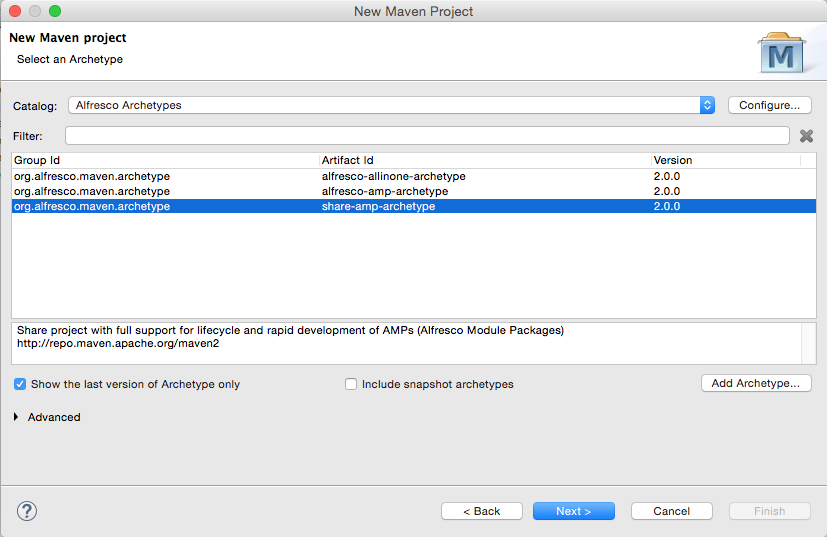
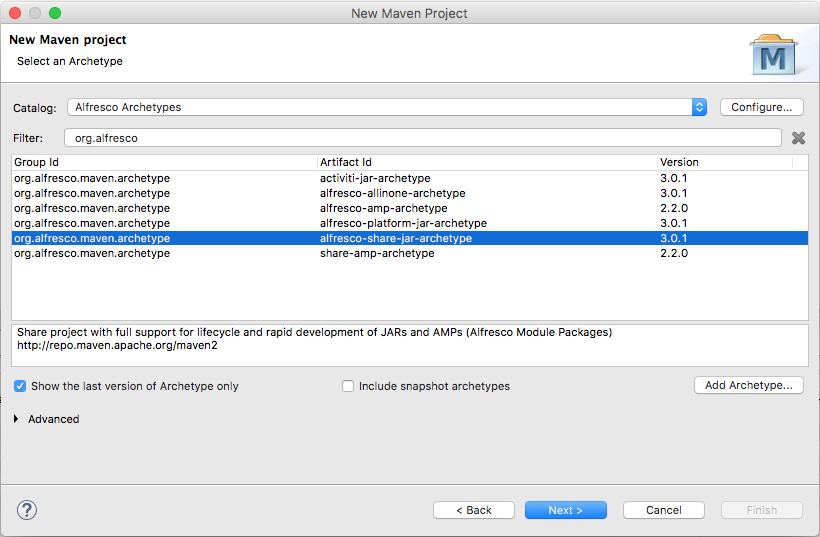
Upgrade maven-sdk tutorial source and content to Alfresco SDK 3.0.1.

Changed region(s): [[0.0, 0.0, 1.0, 0.7449], [0.0, 0.8939, 1.0, 1.0], [0.0305, 0.7747, 0.0915, 0.8045]]

diff --git a/maven-sdk/tutorial/tutorial.html b/maven-sdk/tutorial/tutorial.html
@@ -44,6 +44,7 @@ Architect | Alfresco Developer Tutorials</title>
 <li><a href="#your-first-project">Your First Project</a><ul>
 <li><a href="#lets-run-it">Let's Run It</a></li>
 <li><a href="#what-just-happened">What Just Happened?</a></li>
+<li><a href="#jars-versus-amps">JARs versus AMPs</a></li>
 <li><a href="#other-commands-for-invoking-the-build">Other Commands for Invoking the Build</a></li>
 <li><a href="#logging">Logging</a></li>
 <li><a href="#working-with-your-project-in-an-ide">Working With Your Project in an IDE</a></li>
@@ -82,7 +83,7 @@ Architect | Alfresco Developer Tutorials</title>
 <h2 id="alfresco-maven-sdk">Alfresco Maven SDK</h2>
 <p>The goal of the Maven-based SDK is to make it extremely easy for you to get started with Alfresco development. It consists of a project template (an &quot;archetype&quot; in Maven parlance) and some built-in smarts that make Maven understand how to create AMPs and deploy them to Alfresco.</p>
 <p>If you are writing your own custom application that is separate from the Alfresco and Share WARs you don't need the Alfresco Maven SDK. But if you intend to write code that runs within either of those web applications, the Alfresco Maven SDK is where you need to start.</p>
-<p>A quick word about versions. This tutorial assumes you are using Alfresco Maven SDK 3.0.0. The version you use may depend on which version of Alfresco you want to use. Check the <a href="http://docs.alfresco.com/community/concepts/alfresco-sdk-compatibility.html">Alfresco SDK Compatability Matrix</a> to be sure. If you are using a version older than 4.x you'll have to use the old Ant-based SDK. The rest of this document won't apply to you.</p>
+<p>A quick word about versions. This tutorial assumes you are using Alfresco Maven SDK 3.0.1 which works with Alfresco 4.2.7 and higher. If you are using a version of Alfresco newer than 4.0 but older than 4.2.7 you can use an older version of the SDK. You can use SDK 2.x with this and other tutorials if you must, but you'll almost surely be affected by some differences. If you are using a version of Alfresco older than 4.x you'll have to use the old Ant-based SDK. The rest of this document won't apply to you.</p>
 <p>Now you have a high-level understanding of Apache Maven, AMPs, and the Alfresco Maven SDK. It's time to see them in action.</p>
 <h1 id="your-first-project">Your First Project</h1>
 <p>Let me show you how easy it can be to get started with Alfresco development using the Alfresco Maven SDK. Before I start I'm going to assume you have JDK 1.8 installed as well as Apache Maven 3. You don't need to download anything else. Seriously. Not even Alfresco.</p>
@@ -90,17 +91,15 @@ Architect | Alfresco Developer Tutorials</title>
 <li><p>Create an empty directory. It doesn't matter where it is or what you call it. I'll refer to it as $TUTORIAL_HOME. We're going to be creating some additional directories in here shortly.</p></li>
 <li><p>Now let's create a new project. For now, let's assume you want to create something that you will deploy to the Alfresco repository tier such as a custom content model, some custom rule actions, a new set of web scripts, or some Activiti business processes. It doesn't really matter. To create the new project, change directories to $TUTORIAL_HOME, then run this command:</p>
 <pre><code>mvn archetype:generate -Dfilter=org.alfresco:</code></pre></li>
-<li>Maven will do some work and eventually ask you to choose an &quot;archetype&quot;. You're basically selecting from a library of template projects. There are three available:
-<ol style="list-style-type: decimal">
-<li>alfresco-allinone-archetype</li>
-<li>alfresco-amp-archetype</li>
-<li>share-amp-archetype</li>
-<li>alfresco-platform-jar-archetype</li>
-<li>alfresco-share-jar-archetype</li>
-<li>activiti-jar-archetype</li>
-</ol>
+<li><p>Maven will do some work and eventually ask you to choose an &quot;archetype&quot;. You're basically selecting from a library of template projects. There are six available:</p>
+<pre><code>1: remote -&gt; org.alfresco.maven.archetype:activiti-jar-archetype
+2: remote -&gt; org.alfresco.maven.archetype:alfresco-allinone-archetype
+3: remote -&gt; org.alfresco.maven.archetype:alfresco-amp-archetype
+4: remote -&gt; org.alfresco.maven.archetype:alfresco-platform-jar-archetype
+5: remote -&gt; org.alfresco.maven.archetype:alfresco-share-jar-archetype
+6: remote -&gt; org.alfresco.maven.archetype:share-amp-archetype</code></pre>
 <p>Even though our goal is to create an AMP that can be deployed to Alfresco, neither of the two options with &quot;amp&quot; in their names are what we want. Those are for old versions of the SDK. Instead, we want to choose one that has &quot;jar&quot; in the name. For now, our goal is to deploy to Alfresco, so &quot;alfresco-platform-jar-archetype&quot; is the one we want. Type 4 and hit enter.</p></li>
-<li><p>If Maven asks you to specify the version of the archetype you want, choose 3.0.0. Again, the version you choose may not support all Alfresco versions, so check the compatibility matrix I mentioned earlier.</p></li>
+<li><p>If Maven asks you to specify the version of the archetype you want, choose 3.0.1.</p></li>
 <li><p>Maven now asks for a groupId. You should be thinking &quot;Java package&quot;. My examples always assume I am working at a fictitious company called SomeCo, so I will specify &quot;com.someco&quot; here. Specify what makes sense in your case and hit enter.</p></li>
 <li><p>Next is the artifactId. You can think of this as what you want your project to be called. It will also be the ID of your AMP so make it something unique. You should also append the string &quot;-repo&quot; to your artifactId because this module is intended to be deployed to the repository tier. I'm going to specify &quot;someco-mvn-tutorial-repo&quot; for mine followed by enter.</p></li>
 <li><p>Take the default package, which will match your groupId.</p></li>
@@ -136,8 +135,12 @@ Architect | Alfresco Developer Tutorials</title>
 <pre><code>-Xmx1024M -XX:MaxPermSize=512m</code></pre>
 <p>Another option is to edit the run.sh or run.bat script. With MAVEN_OPTS set you should not see any out-of-memory errors.</p>
 <h2 id="what-just-happened">What Just Happened?</h2>
-<p>If you looked at the run script, you'll see that you asked maven to run the alfresco:run goal. This causes the project to be built, deployed as an AMP to a fresh Alfresco WAR, and run on the embedded Tomcat server. Once it started up, you were able to log in to the admin console and the web scripts console.</p>
-<p>If you go look in the target directory you'll see the AMP that was produced and subsequently deployed to the Alfresco WAR. In my case it is called &quot;someco-mvn-tutorial-repo.amp&quot;. This file is what you would give to your IT team if you were ready to deploy your repository tier changes to a real Alfresco server.</p>
+<p>If you looked at the run script, you'll see that you asked maven to run the clean, install, and alfresco:run goals. This causes the project output to be cleaned, the project to be built, and then run on the embedded Tomcat server. Once it started up, you were able to log in to the admin console and the web scripts console.</p>
+<p>If you go look in the target directory you'll see a JAR file that was produced and subsequently deployed to the Alfresco WAR. In my case it is called &quot;someco-mvn-tutorial-repo-1.0-SNAPSHOT.jar&quot;.</p>
+<h2 id="jars-versus-amps">JARs versus AMPs</h2>
+<p>You can deploy Alfresco projects as JAR files only in a limited number of very simple cases. More often, your changes will need to be packaged as an Alfresco Module Package (AMP) file. Because AMPs must still be used most of the time, it simplifies things to use AMPs all of the time and to never use JARs. So, it's a good idea to just get in the mindset that you've just built your last Alfresco module as a JAR and from now on it will be all AMPs, all the time.</p>
+<p>To change your project to produce AMPs, edit the pom.xml. Search for the &quot;maven-assembly-plugin&quot; and uncomment it. Now when you run <code>mvn install</code> you'll see that an AMP gets produced in the target directory.</p>
+<p>The AMP file is what you would give to your IT team if you were ready to deploy your repository tier changes to a real Alfresco server.</p>
 <h2 id="other-commands-for-invoking-the-build">Other Commands for Invoking the Build</h2>
 <p>You may not always need to start up the Alfresco server and leave it running. If you just want to build the project, run the unit tests, and package the AMP, you can run:</p>
 <pre><code>mvn package</code></pre>
@@ -165,7 +168,7 @@ Running org.alfresco.demoamp.test.DemoComponentTest</code></pre>
 <pre><code>&lt;module.log.level&gt;DEBUG&lt;/module.log.level&gt;</code></pre>
 <p>If you change the pom.xml, then the AMP that gets produced will include that setting, and subsequently, the WAR the AMP gets deployed to will write log statements accordingly. This may or may not be what you want. If you aren't sure, it's probably best to set it using the command-line so it doesn't accidentally get set in your AMP.</p>
 <h2 id="working-with-your-project-in-an-ide">Working With Your Project in an IDE</h2>
-<p>Althought it isn't required, most people prefer to work in an IDE when developing Alfresco customizations. Any IDE will do, but the most popular one is Eclipse so let's see how that works.</p>
+<p>Although it isn't required, most people prefer to work in an IDE when developing Alfresco customizations. Any IDE will do, but the most popular one is Eclipse so let's see how that works.</p>
 <p>I'll be using the Neon version of Eclipse Java EE IDE for Web Developers. It comes with built-in Maven support.</p>
 <p>To open the project we created earlier in Eclipse, do this:</p>
 <ol style="list-style-type: decimal">
@@ -179,10 +182,11 @@ Running org.alfresco.demoamp.test.DemoComponentTest</code></pre>
 </div></li>
 </ol>
 <p>After clicking Finish, the project is imported into your Eclipse workspace.</p>
+<p>Note: In Eclipse you may see Maven lifecycle related errors after importing a project based on the Alfresco Maven SDK. You can modify your pom.xml to resolve these errors or they can be ignored. IntelliJ should have no problem.</p>
 <h2 id="understanding-the-project-structure">Understanding the Project Structure</h2>
 <p>The folder structure of your project is a bit more pleasant to explore in your IDE. Let's see what we've got.</p>
 <ul>
-<li><p><em>pom.xml</em> In the root of the project directory you'll see pom.xml. This tells Maven everything it needs to know about your project. Remember those settings you specified when you created the project from the archetype? You can make changes to those settings here. For example, version 3.0.0 of the archetype assumes you are working with Alfresco Community Edition 5.2.e. If you wanted to work with a different version, you would simply change those properties and then tell Maven to update and it will take care of the rest.</p></li>
+<li><p><em>pom.xml</em> In the root of the project directory you'll see pom.xml. This tells Maven everything it needs to know about your project. Remember those settings you specified when you created the project from the archetype? You can make changes to those settings here. For example, version 3.0.1 of the archetype assumes you are working with Alfresco Community Edition 5.2.e. If you wanted to work with a different version, you would simply change those properties and then tell Maven to update and it will take care of the rest.</p></li>
 <li><p><em>src/main/java</em> This is where you should create your own packages to organize your Java code. Things like custom action executer classes, custom behaviors, Java-based controllers for web scripts go here. If you don't know what those are, don't worry, there are tutorials available <a href="http://ecmarchitect.com/alfresco-developer-series">here</a>. These files will ultimately be placed in a JAR. When the AMP is installed into the Alfresco WAR, the JAR will be placed under WEB-INF/lib.</p></li>
 <li><p><em>src/test</em> Everything under src/test is about running unit tests. The unit tests themselves go in src/test/java. Any resources those classes need go in src/test/resources. In src/test/properties/local you'll see an alfresco-global.properties file. If you are already know something about Alfresco you know that this is used to configure Alfresco. In this case, it is only used when running the embedded Alfresco server for testing purposes.</p></li>
 <li><p><em>src/main/assembly</em> Everything in this directory tells Maven how to construct an AMP file.</p></li>
@@ -198,7 +202,7 @@ Running org.alfresco.demoamp.test.DemoComponentTest</code></pre>
 <h1 id="creating-a-project-for-share-tier-customizations">Creating a Project for Share Tier Customizations</h1>
 <p>The first thing you should realize is that the structure for a project that creates repo tier customizations is exactly the same as one that targets Share tier customizations. From an Alfresco Maven SDK perspective, there are two things different about a Share project: The project's dependencies and the WAR the AMP will be deployed to.</p>
 <h3 id="try-it-create-a-share-project-using-the-archetype">Try It: Create a Share Project Using the Archetype</h3>
-<p>Let's create a new project for Share customizations. You could go into the command line and run the exact same archetype command you ran earlier, selecting the &quot;share-amp-archetype&quot; and specifying a new artifactId. If you are not using Eclipse, go ahead and do that now, then skip the next section.</p>
+<p>Let's create a new project for Share customizations. You could go into the command line and run the exact same archetype command you ran earlier, selecting the &quot;alfresco-share-jar-archetype&quot; and specifying a new artifactId. If you are not using Eclipse, go ahead and do that now, then skip the next section.</p>
 <p>Another option is to configure Eclipse so you can create new Alfresco projects using the Alfresco Maven SDK without leaving the IDE. Let's do that.</p>
 <ol style="list-style-type: decimal">
 <li>File, New Maven Project.</li>
@@ -217,7 +221,7 @@ Running org.alfresco.demoamp.test.DemoComponentTest</code></pre>
 </div></li>
 <li>Now select &quot;Alfresco Archetypes&quot; in the catalog and you'll see a bunch of archetypes show up in the list.</li>
 <li>Specify &quot;org.alfresco.maven.archetype&quot; in the filter and you'll see the same three archetypes that were presented to you as options on the command line at the start of the tutorial.</li>
-<li><p>Select the share-amp-archetype and click Next.</p>
+<li><p>Select the alfresco-share-jar-archetype and click Next.</p>
 <div class="figure">
 <img src="./images/select-amp-archetype.png" />
 </div></li>
@@ -247,9 +251,7 @@ Running org.alfresco.demoamp.test.DemoComponentTest</code></pre>
 </ul>
 <h1 id="where-to-find-more-information">Where to Find More Information</h1>
 <ul>
-<li>The <a href="http://docs.alfresco.com/community/concepts/alfresco-sdk-intro.html">official documentation</a> on the Alfresco Maven SDK is on <a href="http://docs.alfresco.com">http://docs.alfresco.com</a>.</li>
-<li>The <a href="http://www.amazon.com/Instant-Apache-Starter-Maurizio-Turatti/dp/1782167609">Instant Apache Maven Starter</a> book by Maurizio Turatti and Maurizio Pillitu might be a good resource if you are interested in learning more about Apache Maven.</li>
-<li>Gethin James' <a href="http://summit.alfresco.com/barcelona/sessions/getting-started-alfresco-development">Getting Started with Alfresco Development</a> presentation from Alfresco Summit</li>
+<li>The <a href="https://docs.alfresco.com/5.2/concepts/sdk-intro.html">official documentation</a> on the Alfresco Maven SDK is on <a href="https://docs.alfresco.com">https://docs.alfresco.com</a>.</li>
 <li>The <a href="http://ecmarchitect.com/alfresco-developer-series">Alfresco Developer Series</a> on <a href="http://ecmarchitect.com">ECM Architect</a> has free tutorials on custom content models, actions, behaviors, workflows, and web scripts.</li>
 </ul>
 					</div><!-- .entry-content -->

diff --git a/maven-sdk/tutorial/tutorial.md b/maven-sdk/tutorial/tutorial.md
@@ -43,7 +43,7 @@ The goal of the Maven-based SDK is to make it extremely easy for you to get star
 
 If you are writing your own custom application that is separate from the Alfresco and Share WARs you don't need the Alfresco Maven SDK. But if you intend to write code that runs within either of those web applications, the Alfresco Maven SDK is where you need to start.
 
-A quick word about versions. This tutorial assumes you are using Alfresco Maven SDK 3.0.0. The version you use may depend on which version of Alfresco you want to use. Check the [Alfresco SDK Compatability Matrix](http://docs.alfresco.com/community/concepts/alfresco-sdk-compatibility.html) to be sure. If you are using a version older than 4.x you'll have to use the old Ant-based SDK. The rest of this document won't apply to you.
+A quick word about versions. This tutorial assumes you are using Alfresco Maven SDK 3.0.1 which works with Alfresco 4.2.7 and higher. If you are using a version of Alfresco newer than 4.0 but older than 4.2.7 you can use an older version of the SDK. You can use SDK 2.x with this and other tutorials if you must, but you'll almost surely be affected by some differences. If you are using a version of Alfresco older than 4.x you'll have to use the old Ant-based SDK. The rest of this document won't apply to you.
 
 Now you have a high-level understanding of Apache Maven, AMPs, and the Alfresco Maven SDK. It's time to see them in action.
 
@@ -59,17 +59,20 @@ Let me show you how easy it can be to get started with Alfresco development usin
     mvn archetype:generate -Dfilter=org.alfresco:
     ```
 
- 3. Maven will do some work and eventually ask you to choose an "archetype". You're basically selecting from a library of template projects. There are three available:
-    1. alfresco-allinone-archetype
-    2. alfresco-amp-archetype
-    3. share-amp-archetype
-    4. alfresco-platform-jar-archetype
-    5. alfresco-share-jar-archetype
-    6. activiti-jar-archetype
+ 3. Maven will do some work and eventually ask you to choose an "archetype". You're basically selecting from a library of template projects. There are six available:
+
+    ```
+    1: remote -> org.alfresco.maven.archetype:activiti-jar-archetype
+    2: remote -> org.alfresco.maven.archetype:alfresco-allinone-archetype
+    3: remote -> org.alfresco.maven.archetype:alfresco-amp-archetype
+    4: remote -> org.alfresco.maven.archetype:alfresco-platform-jar-archetype
+    5: remote -> org.alfresco.maven.archetype:alfresco-share-jar-archetype
+    6: remote -> org.alfresco.maven.archetype:share-amp-archetype
+    ```
 
     Even though our goal is to create an AMP that can be deployed to Alfresco, neither of the two options with "amp" in their names are what we want. Those are for old versions of the SDK. Instead, we want to choose one that has "jar" in the name. For now, our goal is to deploy to Alfresco, so "alfresco-platform-jar-archetype" is the one we want. Type 4 and hit enter.
 
-4. If Maven asks you to specify the version of the archetype you want, choose 3.0.0. Again, the version you choose may not support all Alfresco versions, so check the compatibility matrix I mentioned earlier.
+4. If Maven asks you to specify the version of the archetype you want, choose 3.0.1.
 
 5. Maven now asks for a groupId. You should be thinking "Java package". My examples always assume I am working at a fictitious company called SomeCo, so I will specify "com.someco" here. Specify what makes sense in your case and hit enter.
 
@@ -130,9 +133,17 @@ Another option is to edit the run.sh or run.bat script. With MAVEN_OPTS set you 
 
 What Just Happened?
 -------------------
-If you looked at the run script, you'll see that you asked maven to run the alfresco:run goal. This causes the project to be built, deployed as an AMP to a fresh Alfresco WAR, and run on the embedded Tomcat server. Once it started up, you were able to log in to the admin console and the web scripts console.
+If you looked at the run script, you'll see that you asked maven to run the clean, install, and alfresco:run goals. This causes the project output to be cleaned, the project to be built, and then run on the embedded Tomcat server. Once it started up, you were able to log in to the admin console and the web scripts console.
 
-If you go look in the target directory you'll see the AMP that was produced and subsequently deployed to the Alfresco WAR. In my case it is called "someco-mvn-tutorial-repo.amp". This file is what you would give to your IT team if you were ready to deploy your repository tier changes to a real Alfresco server.
+If you go look in the target directory you'll see a JAR file that was produced and subsequently deployed to the Alfresco WAR. In my case it is called "someco-mvn-tutorial-repo-1.0-SNAPSHOT.jar".
+
+JARs versus AMPs
+----------------
+You can deploy Alfresco projects as JAR files only in a limited number of very simple cases. More often, your changes will need to be packaged as an Alfresco Module Package (AMP) file. Because AMPs must still be used most of the time, it simplifies things to use AMPs all of the time and to never use JARs. So, it's a good idea to just get in the mindset that you've just built your last Alfresco module as a JAR and from now on it will be all AMPs, all the time.
+
+To change your project to produce AMPs, edit the pom.xml. Search for the "maven-assembly-plugin" and uncomment it. Now when you run `mvn install` you'll see that an AMP gets produced in the target directory.
+
+The AMP file is what you would give to your IT team if you were ready to deploy your repository tier changes to a real Alfresco server.
 
 Other Commands for Invoking the Build
 -------------------------------------
@@ -185,7 +196,7 @@ If you change the pom.xml, then the AMP that gets produced will include that set
 
 Working With Your Project in an IDE
 -----------------------------------
-Althought it isn't required, most people prefer to work in an IDE when developing Alfresco customizations. Any IDE will do, but the most popular one is Eclipse so let's see how that works.
+Although it isn't required, most people prefer to work in an IDE when developing Alfresco customizations. Any IDE will do, but the most popular one is Eclipse so let's see how that works.
 
 I'll be using the Neon version of Eclipse Java EE IDE for Web Developers. It comes with built-in Maven support.
 
@@ -201,11 +212,13 @@ To open the project we created earlier in Eclipse, do this:
 
 After clicking Finish, the project is imported into your Eclipse workspace.
 
+Note: In Eclipse you may see Maven lifecycle related errors after importing a project based on the Alfresco Maven SDK. You can modify your pom.xml to resolve these errors or they can be ignored. IntelliJ should have no problem.
+
 Understanding the Project Structure
 -----------------------------------
 The folder structure of your project is a bit more pleasant to explore in your IDE. Let's see what we've got.
 
-* *pom.xml* In the root of the project directory you'll see pom.xml. This tells Maven everything it needs to know about your project. Remember those settings you specified when you created the project from the archetype? You can make changes to those settings here. For example, version 3.0.0 of the archetype assumes you are working with Alfresco Community Edition 5.2.e. If you wanted to work with a different version, you would simply change those properties and then tell Maven to update and it will take care of the rest.
+* *pom.xml* In the root of the project directory you'll see pom.xml. This tells Maven everything it needs to know about your project. Remember those settings you specified when you created the project from the archetype? You can make changes to those settings here. For example, version 3.0.1 of the archetype assumes you are working with Alfresco Community Edition 5.2.e. If you wanted to work with a different version, you would simply change those properties and then tell Maven to update and it will take care of the rest.
 
 * *src/main/java* This is where you should create your own packages to organize your Java code. Things like custom action executer classes, custom behaviors, Java-based controllers for web scripts go here. If you don't know what those are, don't worry, there are tutorials available [here](http://ecmarchitect.com/alfresco-developer-series). These files will ultimately be placed in a JAR. When the AMP is installed into the Alfresco WAR, the JAR will be placed under WEB-INF/lib.
 
@@ -229,7 +242,7 @@ The first thing you should realize is that the structure for a project that crea
 
 ### Try It: Create a Share Project Using the Archetype
 
-Let's create a new project for Share customizations. You could go into the command line and run the exact same archetype command you ran earlier, selecting the "share-amp-archetype" and specifying a new artifactId. If you are not using Eclipse, go ahead and do that now, then skip the next section.
+Let's create a new project for Share customizations. You could go into the command line and run the exact same archetype command you ran earlier, selecting the "alfresco-share-jar-archetype" and specifying a new artifactId. If you are not using Eclipse, go ahead and do that now, then skip the next section.
 
 Another option is to configure Eclipse so you can create new Alfresco projects using the Alfresco Maven SDK without leaving the IDE. Let's do that.
 
@@ -249,7 +262,7 @@ Another option is to configure Eclipse so you can create new Alfresco projects u
 
 6. Now select "Alfresco Archetypes" in the catalog and you'll see a bunch of archetypes show up in the list.
 7. Specify "org.alfresco.maven.archetype" in the filter and you'll see the same three archetypes that were presented to you as options on the command line at the start of the tutorial.
-8. Select the share-amp-archetype and click Next.
+8. Select the alfresco-share-jar-archetype and click Next.
 
     ![](./images/select-amp-archetype.png)
 
@@ -290,7 +303,5 @@ There are many topics that weren't covered in this tutorial. I'll leave you to e
 
 Where to Find More Information
 ==============================
- - The [official documentation](http://docs.alfresco.com/community/concepts/alfresco-sdk-intro.html) on the Alfresco Maven SDK is on <http://docs.alfresco.com>.
-  - The [Instant Apache Maven Starter](http://www.amazon.com/Instant-Apache-Starter-Maurizio-Turatti/dp/1782167609) book by Maurizio Turatti and Maurizio Pillitu might be a good resource if you are interested in learning more about Apache Maven.
- - Gethin James' [Getting Started with Alfresco Development](http://summit.alfresco.com/barcelona/sessions/getting-started-alfresco-development) presentation from Alfresco Summit
+ - The [official documentation](https://docs.alfresco.com/5.2/concepts/sdk-intro.html) on the Alfresco Maven SDK is on <https://docs.alfresco.com>.
  - The [Alfresco Developer Series](http://ecmarchitect.com/alfresco-developer-series) on [ECM Architect](http://ecmarchitect.com) has free tutorials on custom content models, actions, behaviors, workflows, and web scripts.
